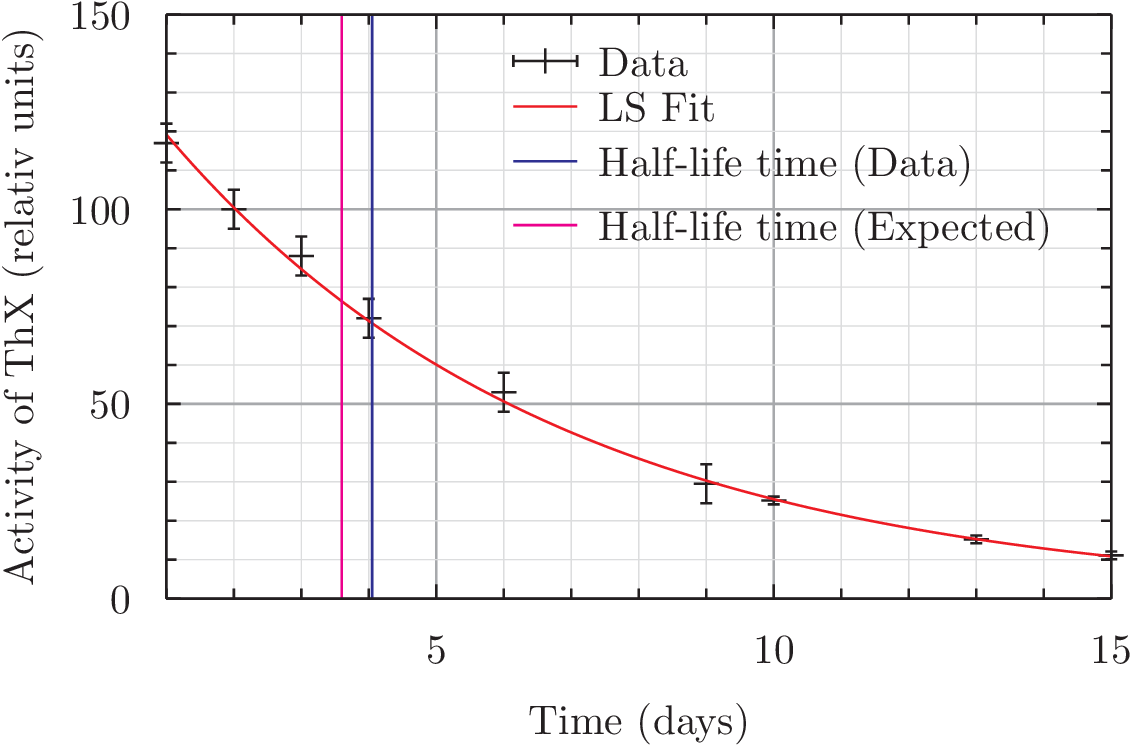
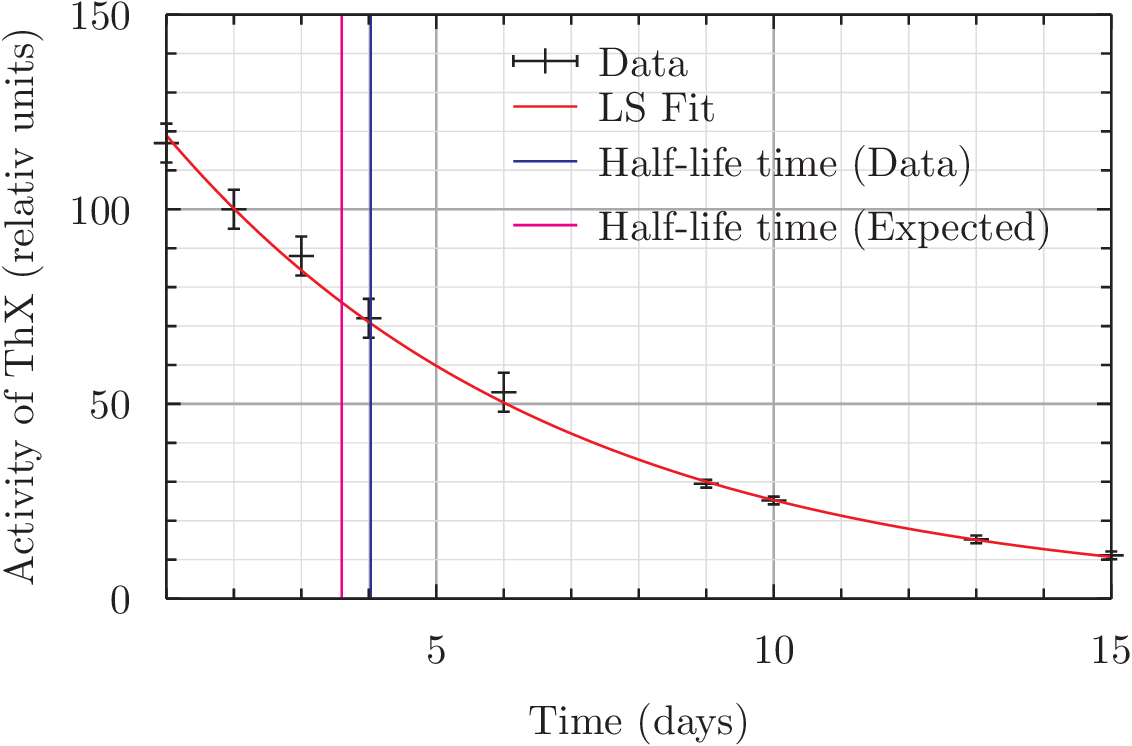
change dy

diff --git a/homework/LeastSquaresFit/A/main.cs b/homework/LeastSquaresFit/A/main.cs
@@ -7,7 +7,7 @@ class main{
 		// Data
 		var t = new vector(new double[] {1,  2,  3, 4, 6, 9,   10,  13,  15});
 		var y = new vector(new double[] {117,100,88,72,53,29.5,25.2,15.2,11.1}); 
-		var dy = new vector(new double[] {5,5,5,5,5,5,1,1,1,1});
+		var dy = new vector(new double[] {5,5,5,5,5,1,1,1,1});
 		
 		//Function 
 		var fs = new Func<double,double>[]{x => 1.0, x => -x};

diff --git a/homework/LeastSquaresFit/A/QRGS.cs b/homework/LeastSquaresFit/A/QRGS.cs
@@ -38,7 +38,7 @@ public class QRGS{
 		int n = Q.size1; 
 		int m = Q.size2;
 		var B = new matrix(m,n);
-		var I = id(m); 
+		var I = id(n); 
 		for(int i = 0; i<n; i++)
 			B[i] = solve(I[i]);
 		return B;
